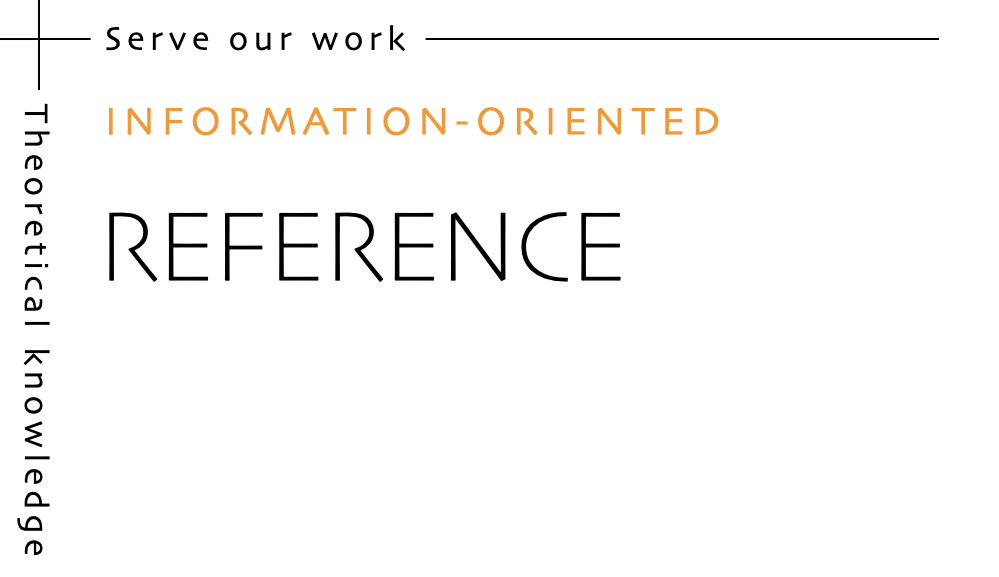
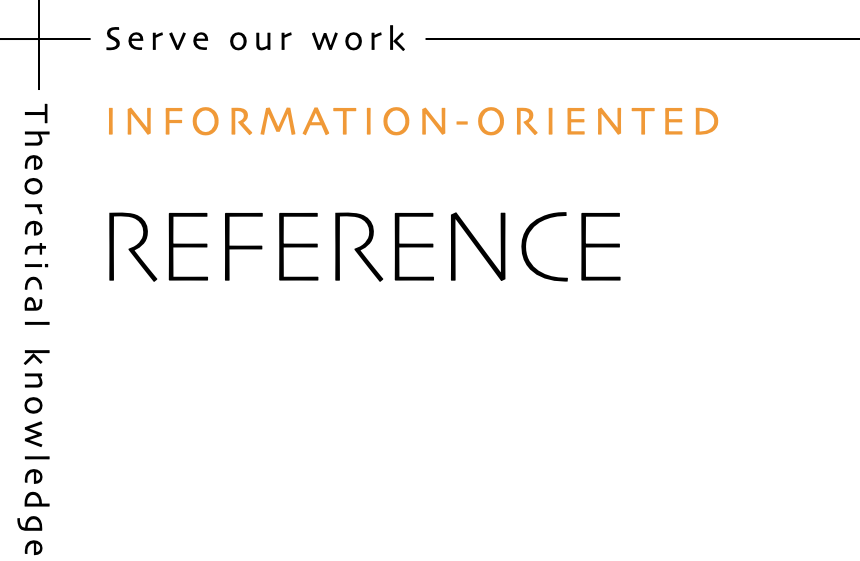
Updated content for new styling

diff --git a/tutorials.rst b/tutorials.rst
@@ -7,9 +7,10 @@ About tutorials
 
 ===========
 
-..  image:: /images/overview-tutorials.png
-    :alt: Tutorials - learning-oriented guides that describe practical steps and are intended to serve our study.
-    :class: floated
+..  sidebar::
+
+    ..  image:: /images/overview-tutorials.png
+        :alt: Tutorials - learning-oriented guides that describe practical steps and are intended to serve our study.
 
 A tutorial must help a beginner achieve basic competence with a product, so that they can go on to use the product
 for their own purposes.
@@ -45,6 +46,10 @@ experience, your tutorial isn't doing the job it needs to.
 Obligations of the teacher
 ~~~~~~~~~~~~~~~~~~~~~~~~~~~
 
+..  sidebar::
+
+    It's not easy being a teacher.
+
 **The teacher has responsibility**: for what the pupil is to learn, what the pupil will do in order to learn it, and
 for the pupil's success. The only responsibility of the pupil is to be attentive and to follow the teacher's directions
 as closely as they can. **There is no responsibility on the pupil to learn, understand or remember** - the learner's
@@ -58,8 +63,6 @@ At the same time, the exercise you put your pupils through must be:
 * *usefully complete* - the pupil must have an encounter with all of the actions, concepts and tools they need to become
   familiar with
 
-It's not easy being a teacher.
-
 
 The problem of tutorials
 ~~~~~~~~~~~~~~~~~~~~~~~~~~~~
@@ -69,6 +72,11 @@ Most software projects have poor - or non-existent - tutorials.
 
 In an ideal lesson, the teacher is present and interacts with and responds to the student. A written tutorial is a
 far-from-perfect substitute for this.
+
+..  sidebar::
+
+    You can easily find that writing and maintaining your tutorials occupies as much time and energy as all the other
+    parts of documentation put together.
 
 The sheer amount of work required to create and maintain tutorials is much more than that required for the
 other parts of documentation. It's hard enough to put together a learning experience that meets all the standards
@@ -80,18 +88,14 @@ You only have to change a reference or how-to guide if something in the product 
 part of it needs to change. In the case of a tutorial, you may come to the conclusion that the whole lesson should be
 completely rewritten, because you have thought of a better way to produce a learning experience for the pupil.
 
-You can easily find that writing and maintaining your tutorials occupies as much time and energy as the the other
-three parts put together.
-
 ===============
 
 Food and cooking
 --------------------
 
-.. image:: /images/anselmo.jpg
-   :alt: 
-   :class: floated
-
+..  image:: /images/anselmo.jpg
+    :alt:
+    :class: floated
 
 Perhaps you have had the experience of teaching a child to cook, in which case you'll have encountered most of the main
 demands imposed by a tutorial.

diff --git a/index.rst b/index.rst
@@ -6,10 +6,12 @@
 
 .. _diataxis:
 
-Diátaxis Documentation Framework
+Diátaxis
 ========================================================
 
 ..  rubric:: A systematic framework for technical documentation authoring.
+
+----------
 
 The Diátaxis framework aims to solve the problem of structure in technical documentation. It adopts a systematic
 approach to understanding the needs of documentation users in their cycle of interaction with a product.
@@ -27,9 +29,10 @@ approach to understanding the needs of documentation users in their cycle of int
 Four modes of documentation
 ----------------------------
 
-..  sidebar:: *Diátaxis*
+..  sidebar::
 
-    From the Ancient Greek δῐᾰ́τᾰξῐς - *dia*, "across", and *taxis*, "arrangement".
+    The name *Diátaxis* comes from the Ancient Greek δῐᾰ́τᾰξῐς: *dia* ("across") and *taxis*
+    ("arrangement").
 
 The framework identifies four modes of documentation - **tutorials**, **how-to guides**, **technical reference** and
 **explanation**.
@@ -40,8 +43,10 @@ approach to its creation.
 Technical documentation should be structured explicitly around these four types, and should keep them all separate and
 distinct from each other.
 
+
 .. image:: /images/diataxis.png
    :alt: Diátaxis
+   :class: wider
 
 In other words, what we call *documentation* is fundamentally not one thing, but four. Understanding the implications
 of this, and how those four different things work, can help improve most documentation.
@@ -75,16 +80,6 @@ across a wide variety of fields and applications <adoption>`. These include larg
 documentation projects.
 
 
-Video presentation
-------------------
-
-Here is a video of a conference talk presenting the concepts encapsulated in Diátaxis, from PyCon Australia 2017.
-
-..  raw:: html
-
-    <div class="embed-responsive embed-responsive-16by9">
-        <iframe class="embed-responsive-item" src="https://www.youtube.com/embed/t4vKPhjcMZg" frameborder="0" allow="accelerometer; autoplay; encrypted-media; gyroscope; picture-in-picture" allowfullscreen></iframe>
-    </div>
 
 .. toctree::
    :maxdepth: 1

diff --git a/needs.rst b/needs.rst
@@ -49,17 +49,22 @@ of documentation are laid out:
 
 .. image:: /images/diataxis.png
    :alt:
+   :class: wider
 
 
 
 Characteristics of documentation
 ----------------------------------------------------
 
+A clear advantage of organising material this way is that it provides both clear *expectations* (to the reader) and
+*guidance* (to the author). It's clear what the purpose of any particular piece of content is, it specifies how it
+should be written and it shows where it should be placed.
 
 .. list-table::
    :widths: 16 21 21 21 21
    :header-rows: 1
    :stub-columns: 1
+   :class: wider
 
    * - \
      - :ref:`Tutorials <tutorials>`
@@ -97,10 +102,6 @@ Characteristics of documentation
      - a reference encyclopaedia article
      - an article on culinary social history
 
-A clear advantage of organising material this way is that it provides both clear *expectations* (to the reader) and
-*guidance* (to the author). It's clear what the purpose of any particular piece of content is, it specifies how it
-should be written and it shows where it should be placed.
-
 Each piece of content is of a kind that not only has one particular job to do, that job is also clearly distinguished
 from and contrasted with the other functions of documentation.
 
@@ -118,12 +119,15 @@ documentation).
 * *reference and explanation* both contain *theoretical knowledge*
 * *tutorials and explanation* are both concerned with the *acquisition of knowledge*
 
+..  sidebar::
+
+    ..  image:: /images/total-collapse.png
+        :alt: The structure of documemntation can collapse.
+
 Allowing these distinctions to blur is what brings about structural problems. The most common is a complete or partial
 collapse of tutorials and how-to guides into each other, while explanation spills over into both tutorials and
-reference material. So sometimes, documentation looks like this:
+reference material.
 
-.. image:: /images/total-collapse.png
-   :alt: A totally collapsed structure
 
 -------------
 

diff --git a/tutorials-how-to.rst b/tutorials-how-to.rst
@@ -28,7 +28,7 @@ perform the actions in the right order.
 They are closely related, and like many close relations, can be mistaken for one another at first glance.
 
 
-What really matters is what the user needs
+What matters is what the user needs
 ------------------------------------------------
 
 Diátaxis insists that :ref:`what matters in documentation is the needs of the user <needs>`, and it’s by paying
@@ -68,10 +68,10 @@ uneven depths that looks like something from a knife-fight.
 After a few attempts, with feedback and correction from the tutor, you’ll have made a more or less clean cut that
 mostly goes through the fat layer without cutting into the muscle beneath. Triumph!
 
-.. image:: /images/suture.jpg
-   :alt:
-   :align: right
-   :width: 250
+..  sidebar::
+
+    .. image:: /images/suture.jpg
+       :alt:
 
 But now you’re being asked to stitch it back up again! You’ll watch the tutor demonstrate deftly and precisely, closing
 the wound in the pad with a few neat, even stitches. You, on the other hand, will fumble with the thread. You will hold
@@ -106,10 +106,10 @@ a laparoscopic procedure, whether you have pre-operative imaging to rely on or n
 steps or checks to be made in the case of an infant or juvenile patient, or when converting to an open appendectomy
 mid-procedure. Many of the steps will be of the form *if this, then that*.
 
-.. image:: /images/operation.jpg
-   :alt:
-   :align: right
-   :width: 400
+..  sidebar::
+
+    .. image:: /images/operation.jpg
+       :alt:
 
 Having a manual helps ensure that all the steps are done in the right order and none are omitted. As a team, you’ll
 check through details of a procedure to remind yourselves of key steps; sometimes you'll refer to it during the

diff --git a/how-to-guides.rst b/how-to-guides.rst
@@ -8,9 +8,10 @@ About how-to guides
 
 ===========
 
-..  image:: /images/overview-how-to.png
-    :alt: How-to guides - task oriented, practical steps, that serve our work
-    :class: floated
+..  sidebar::
+
+    ..  image:: /images/overview-how-to.png
+        :alt: How-to guides - task oriented, practical steps, that serve our work
 
 How-to guides can be thought of as recipes, directions that guide the reader through the steps to achieve a specific
 end.
@@ -25,8 +26,6 @@ encouraging suggestion of a product's capabilities.
 
 If they're well-written and address the right subjects, you're likely to find that how-to guides are the most-read
 sections of your documentation.
-
-..  rst-class:: clearfix
 
 ===========
 

diff --git a/explanation.rst b/explanation.rst
@@ -8,9 +8,10 @@ About explanation
 
 ===========
 
-..  image:: /images/overview-explanation.png
-    :alt: Explanation - understanding oriented, theoretical knowledge, that serves our study
-    :class: floated
+..  sidebar::
+
+    ..  image:: /images/overview-explanation.png
+        :alt: Explanation - understanding oriented, theoretical knowledge, that serves our study
 
 Explanation clarifies, deepens and broadens the reader’s understanding of a subject.
 
@@ -76,7 +77,7 @@ Analogy from cooking
 --------------------
 
 ..  image:: /images/mcgee.jpg
-    :alt: 
+    :alt:
     :class: floated
 
 In 1984 Harold McGee published *On food and cooking*.

diff --git a/reference.rst b/reference.rst
@@ -8,9 +8,10 @@ About reference
 
 ===========
 
-..  image:: /images/overview-reference.png
-    :alt: Reference - information oriented, theoretical knowledge, that serves our work
-    :class: floated
+..  sidebar::
+
+    ..  image:: /images/overview-reference.png
+        :alt: Reference - information oriented, theoretical knowledge, that serves our work
 
 The only purpose of a reference guide is to describe, as succinctly as possible, and in an orderly
 way. Whereas the content of tutorials and how-to guides are led by needs of the user, reference

diff --git a/how-to-use-diataxis.rst b/how-to-use-diataxis.rst
@@ -96,6 +96,7 @@ There's a strong urge to work in a cycle of planning and execution in order to w
 only way, and there are often better ways when working with documentation.
 
 ..  figure:: /images/always-complete.jpg
+    :figclass: wider
     :alt:
 
     Illustration copyright `Linette Voller <https://linettevoller.com>`_ 2021, reproduced with kind permission.
